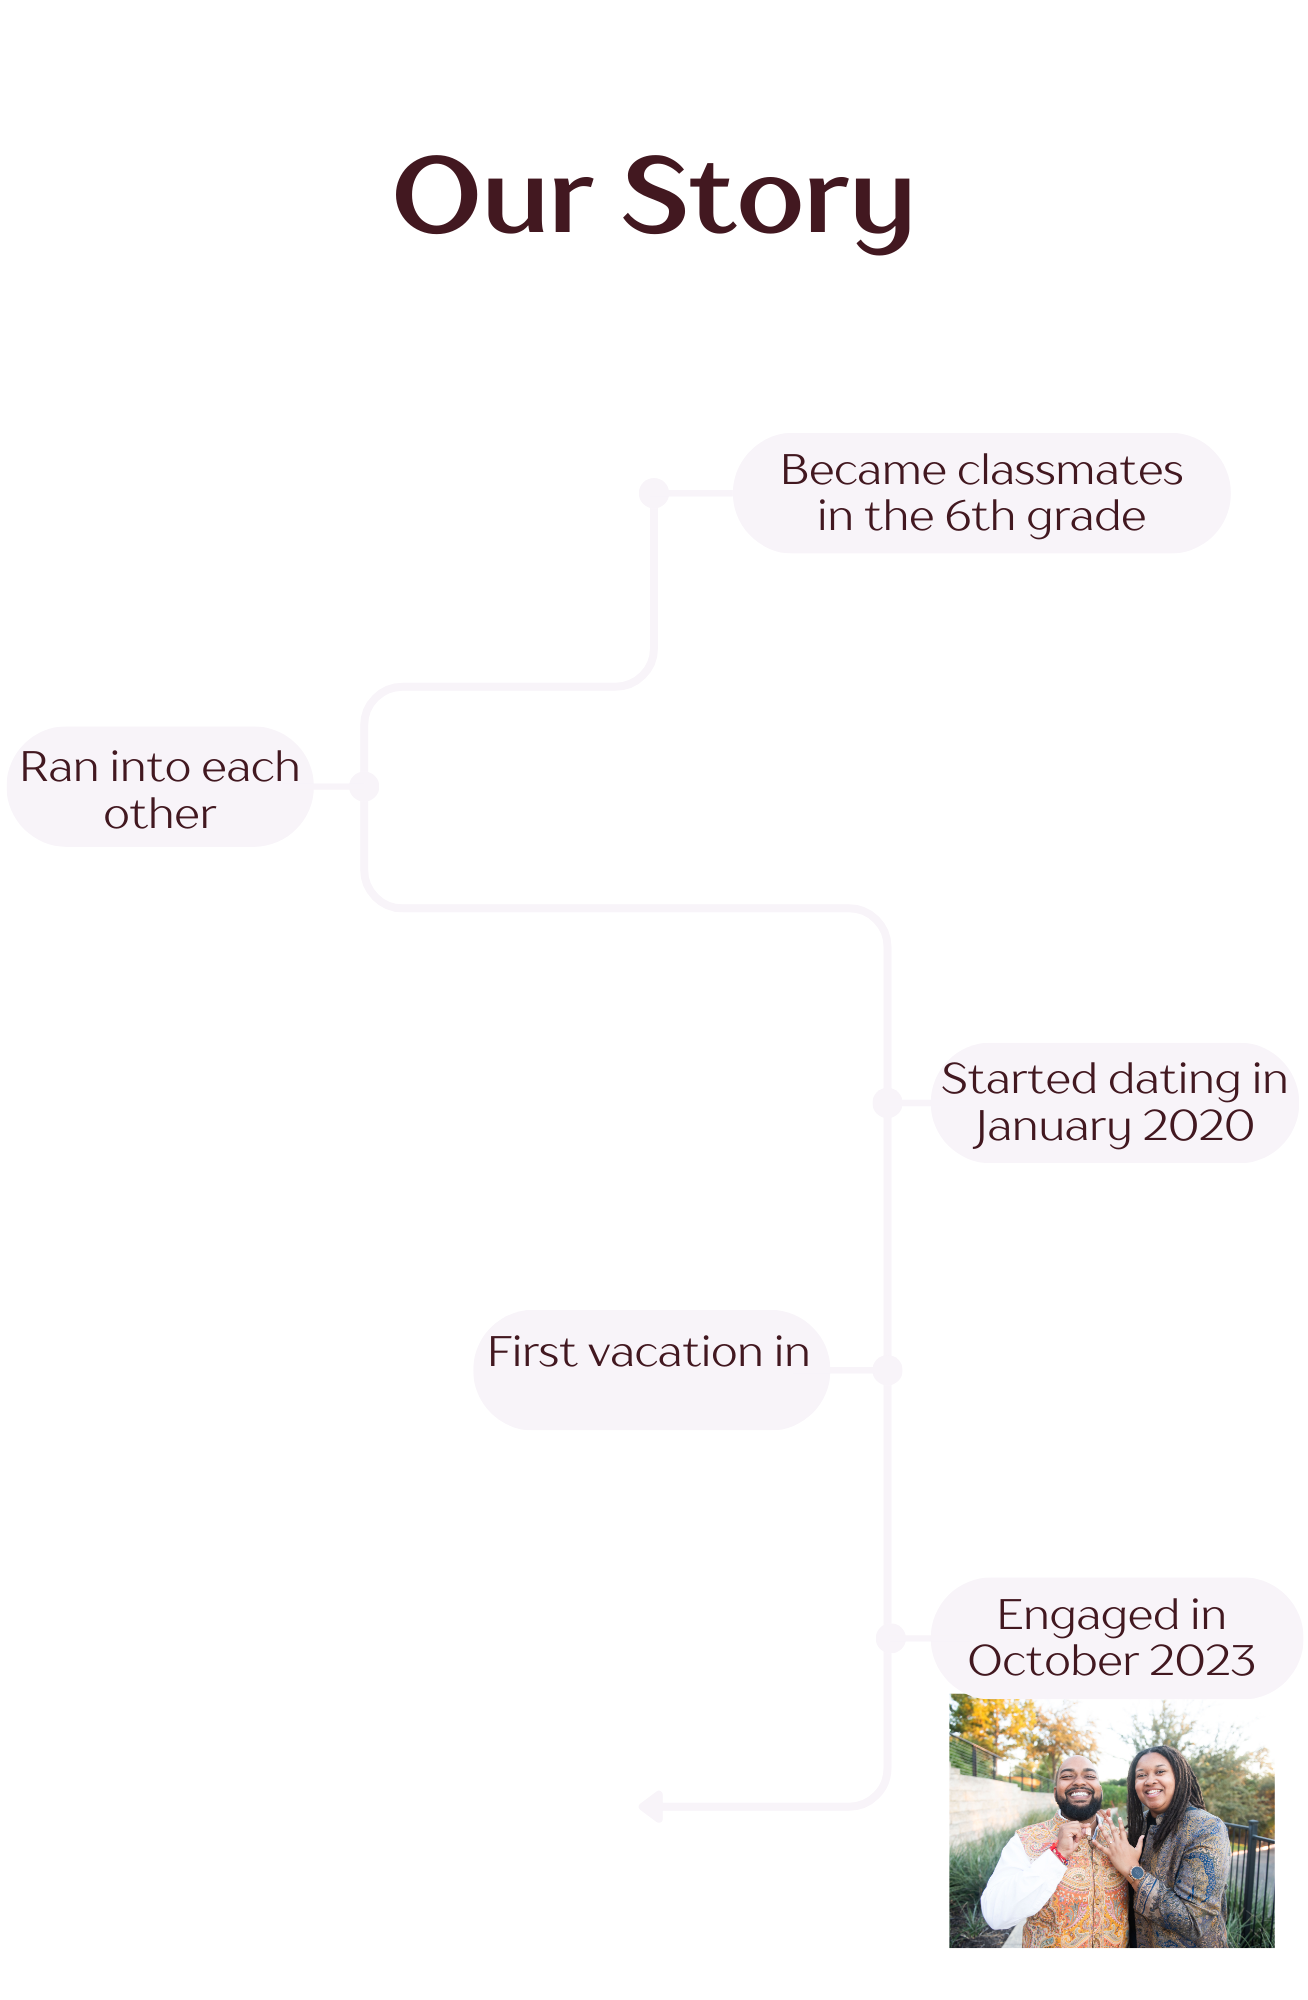
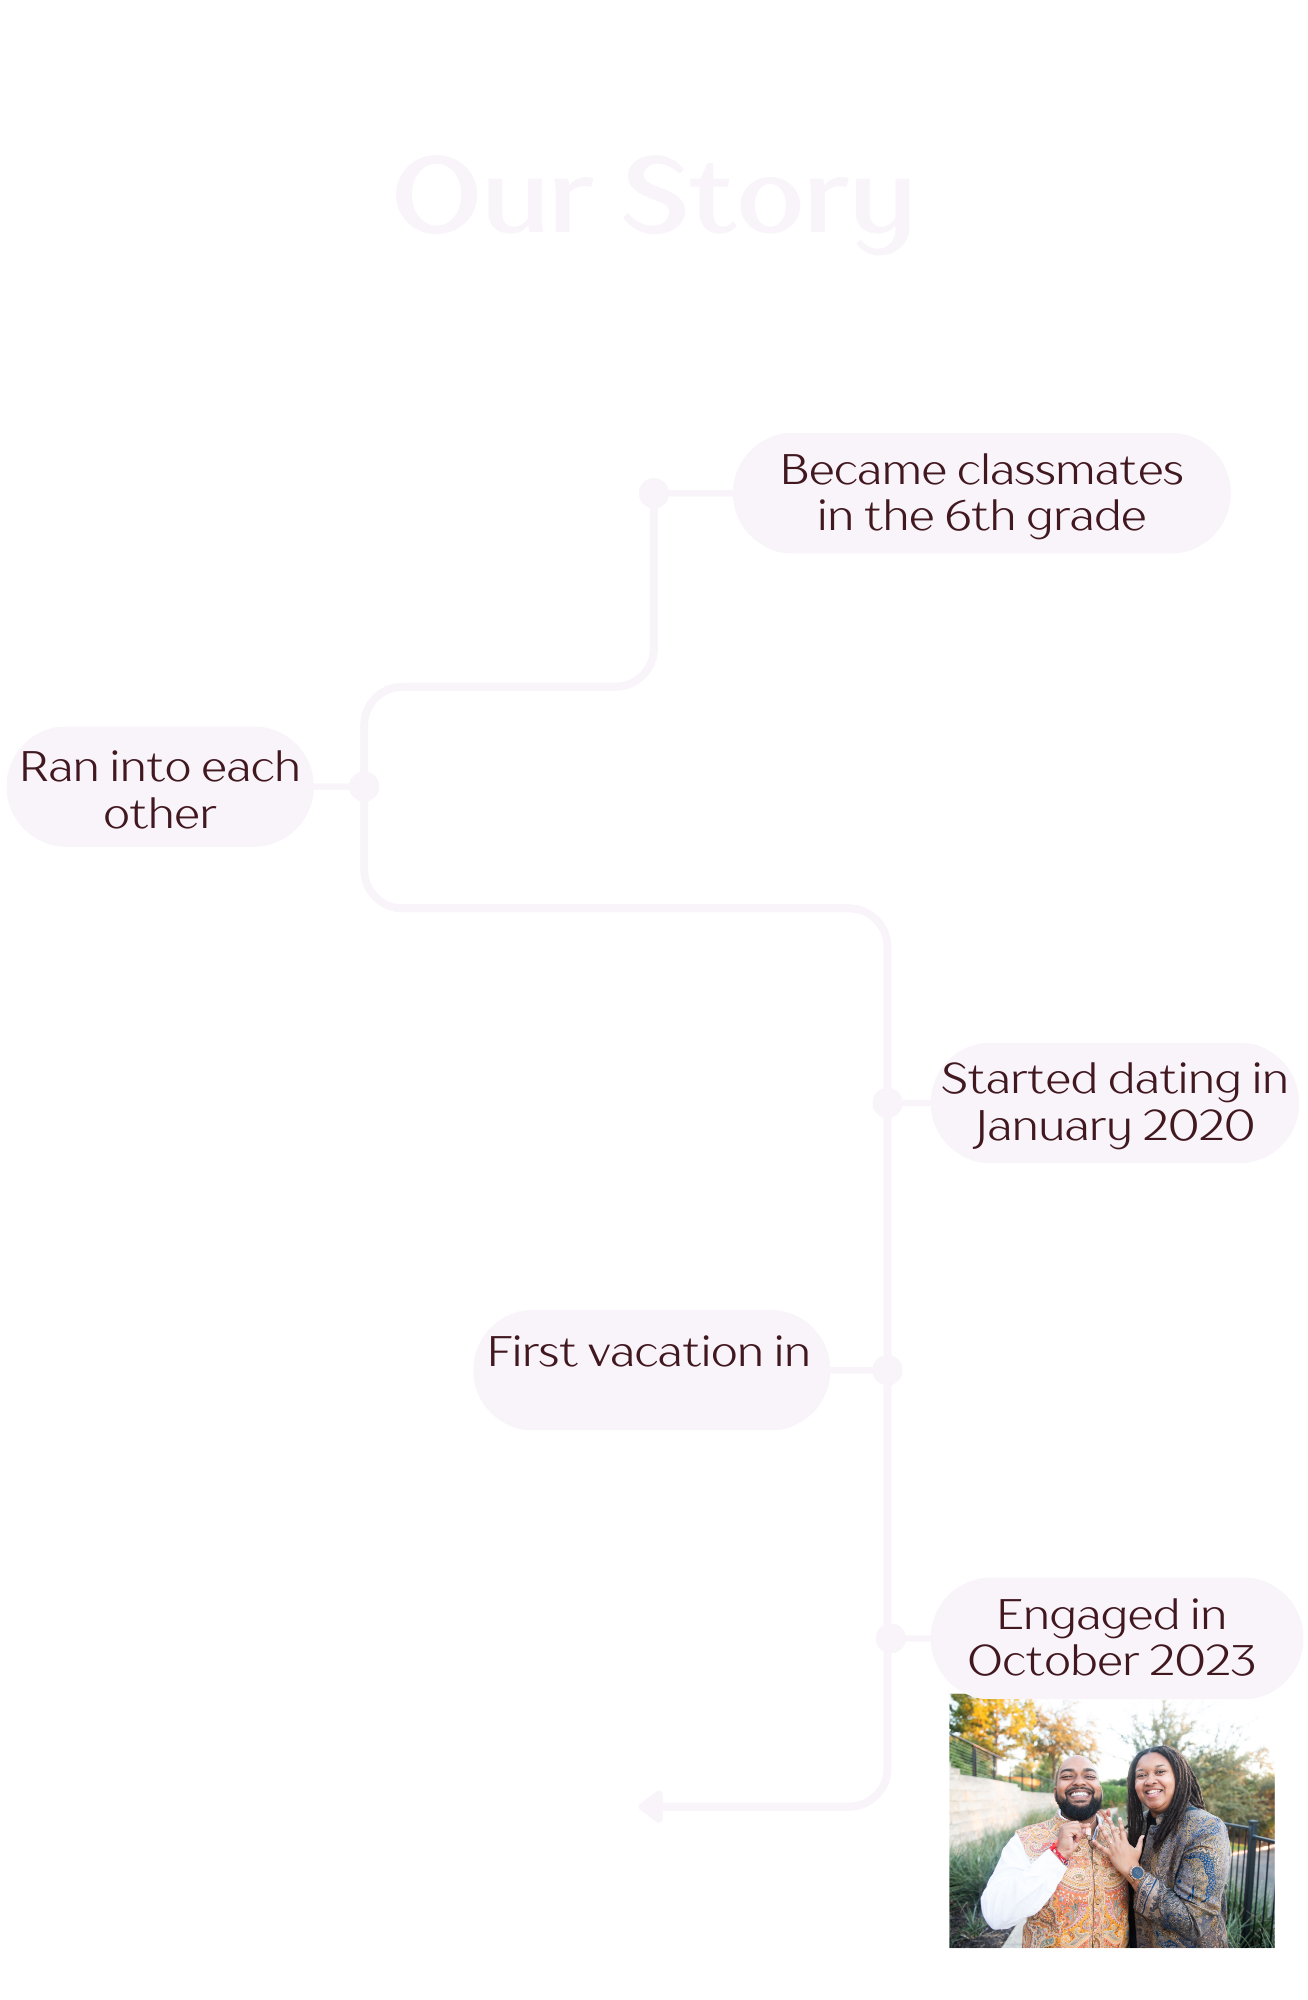
Add FAQ Section
Added the html and css for the FAQ section. Fixed the font color for the Our Story page. Added a file in Canva for the FAQ header. Used this site for the FAQ code: https://codepa.dev/create-a-responsive-faq-section/

Changed region(s): [[0.4587, 0.062, 0.7034, 0.124], [0.3058, 0.062, 0.4587, 0.124]]

diff --git a/index.html b/index.html
@@ -112,22 +112,40 @@
                 </div>
             </div>
         </div>
-        
-        
-
     </div>
 
     <!-- FAQ Section -->
     <div class="faq" id="faq">
-        <div class="main__container">
-            <div class="main__content">
-                <h1>Come celebrate with us!</h1>
-                <h2>RSVP</h2>
-                <p>Schedule a call to learn more about our services</p>
-                <button class="main__btn"><a href="#">RSVP Here</a></button>
+        <div class="faq__container">
+            <img src="images/FAQ Header.png" alt="FAQ Section Header">
+            <div class="faq__content">
+                <input type="checkbox" id="question1">
+                <label for="question1">Is there a recommended travel agent?</label>
+                <div class="answer">
+                    <p>Yes!</p>
+                </div>
             </div>
-            <div class="main__img--container">
-                <div class="main__img--card" id="card-2">ICON</div>
+            <div class="faq__content">
+                <input type="checkbox" id="question2">
+                <label for="question2">Where will guests be staying?</label>
+                <div class="answer">
+                    <p>Accomodations for all guests will be arranged for the Bal Samand Lake Palace. 
+                    Lodging costs for the days of the wedding event will be paid for as a thank you for your attendance. </p>
+                </div>
+            </div>
+            <div class="faq__content">
+                <input type="checkbox" id="question3">
+                <label for="question3">Do you have a travel agent?</label>
+                <div class="answer">
+                    <p>Schedule a call to learn more about our services</p>
+                </div>
+            </div>
+            <div class="faq__content">
+                <input type="checkbox" id="question4">
+                <label for="question4">Do you have a travel agent?</label>
+                <div class="answer">
+                    <p>Schedule a call to learn more about our services</p>
+                </div>
             </div>
         </div>
     </div>

diff --git a/styles.css b/styles.css
@@ -515,6 +515,73 @@
     }
 }
 
+/* FAQ SECTION **************************************************************************************** */
+.faq {
+    background-image: url(images/proposal-62.jpg);
+    background-size: cover;
+    background-position: center;
+    background-repeat: no-repeat;
+    background-attachment: fixed;
+    background-color: rgba(255, 255, 255, 0.2);
+    background-blend-mode: lighten;
+    padding: 200px 0;
+    font-size: 1.2rem;
+}
+
+.faq__container {
+    width: 80%;
+    margin: 0 auto;
+}
+
+.faq img {
+    max-width: 100%;
+    height: auto;
+    width: auto\9;
+    opacity: 1;
+}
+
+.faq__content {
+    margin: 20px 0;
+    border: 3px solid #421820;
+}
+
+.faq__content input {
+    display: none;
+}
+
+.faq__content label {
+    display: block;
+    padding: 10px;
+    cursor: pointer;
+    background-color: #421820;
+    font-size: 2rem;
+    color: #F8F4F9;
+}
+
+.faq__content label:hover {
+    background-color: #EBA83A ;
+}
+
+.faq__content input:checked + label {
+    background-color: #EBA83A ;
+}
+
+.answer {
+    max-height: 0px;
+    overflow: hidden;
+    transition: max-height 0.5s ease;
+    padding: 0 15px;
+    background-color: #F8F4F9;
+}
+
+.answer p {
+    margin: 15px 0;
+    font-size: 1.5rem;
+}
+
+.faq__content input:checked ~ .answer {
+    max-height: 1000px;
+}
 
 /*  FOOTER SECTION **************************************************************************************************************/
 .footer__container {
